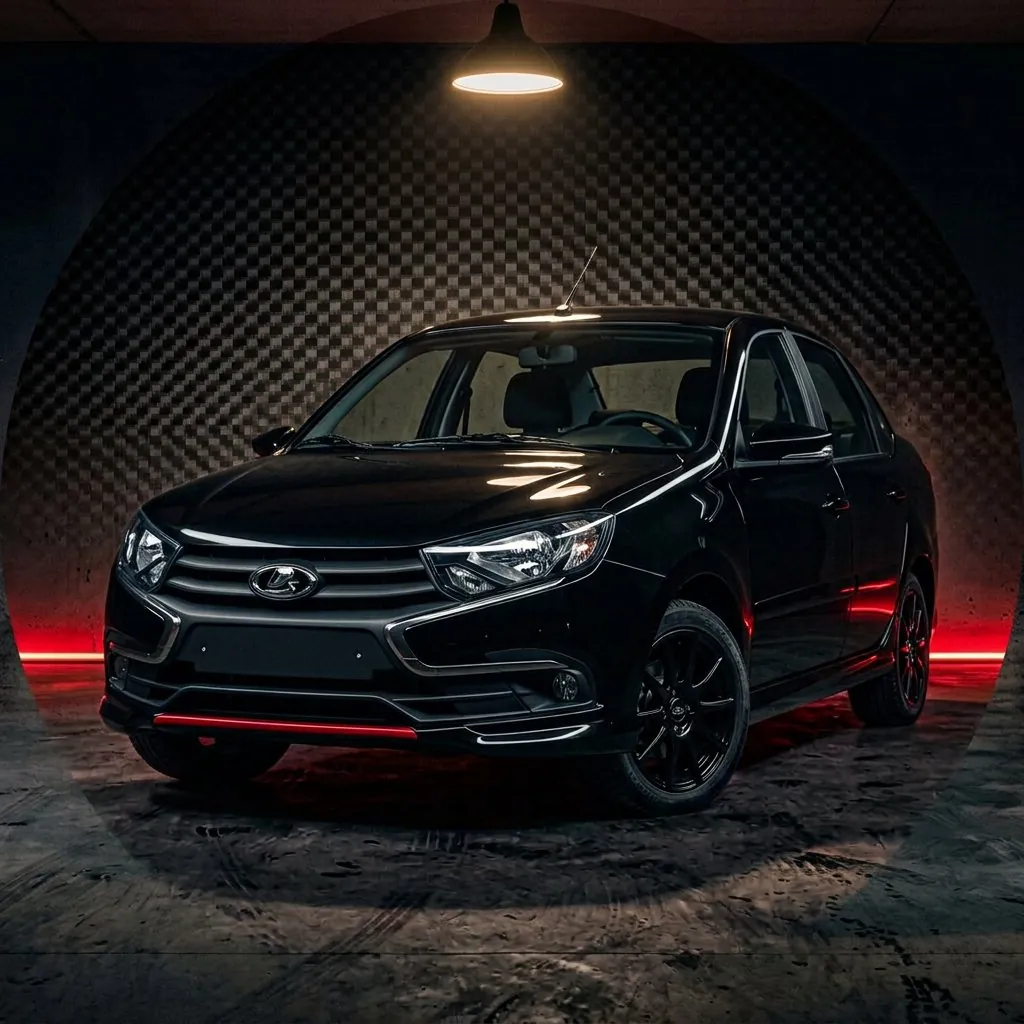
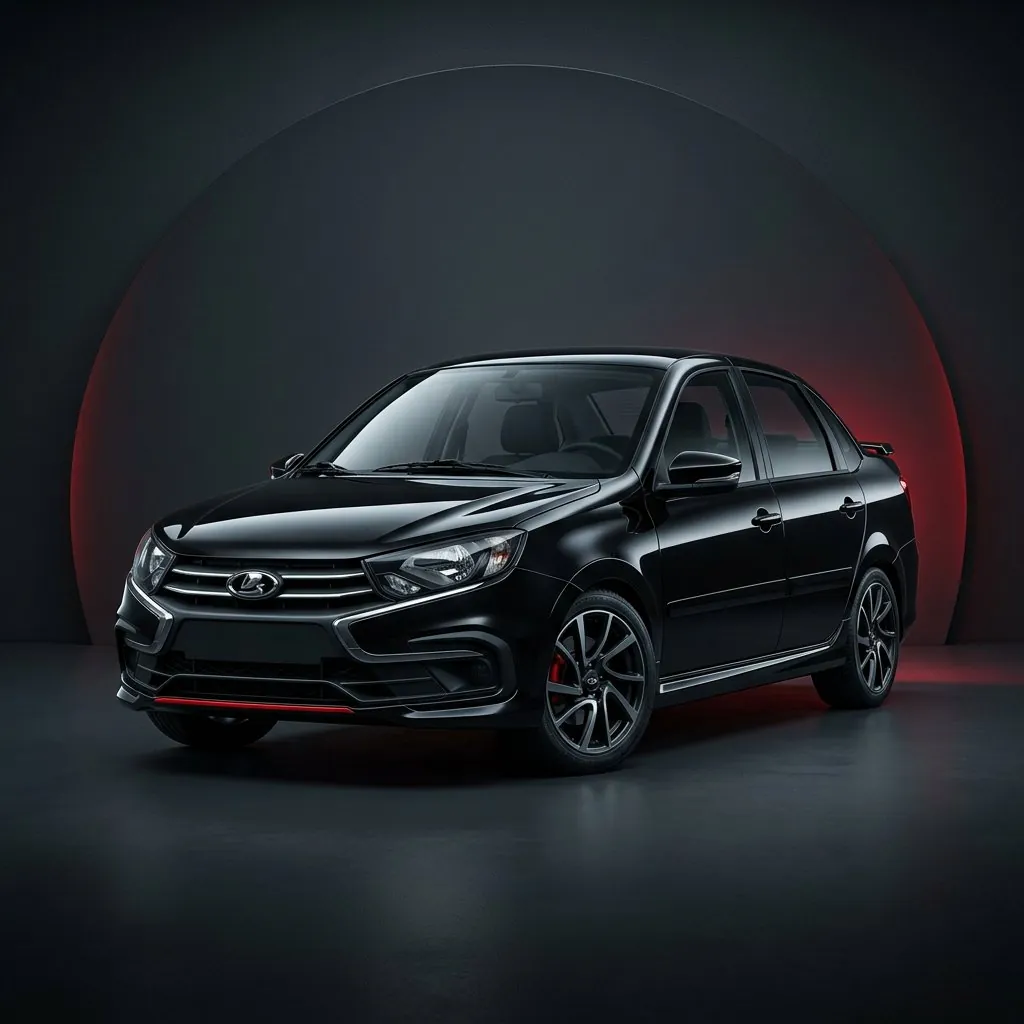
feat(images): только Granta Sport и Vesta Sport 2026, чёрный и белый
На всех кадрах сайта теперь актуальные спортивные версии 2026 модельного
года: у Granta Sport — Х-образная решётка, спортивный бампер с красной губой,
юбки и спойлер; у Vesta Sport — чёрная крыша и зеркала, чёрные 17-дюймовые
диски, обвес и светодиодные фары с L-образными ДХО. Разрешены только два
цвета кузова — чёрный и белый, старых моделей в кадре нет.

Обновлены все 9 кадров дуэта и аватар Telegram-бота:
- hero, road, credit, fuel, service, garage, garage-granta, garage-vesta, detail
- шильдики в lada-duo-detail теперь читаются как GRANTA SPORT / VESTA SPORT
- WebP-версии пересобраны (npm run images: 1796 КБ → 986 КБ)
- alt-тексты и описания каталога в src/lib/assets.ts приведены к 2026 модельному ряду

npm run check (типы, тесты, smoke, сборка, check:dist) — зелёный.

diff --git a/src/lib/assets.ts b/src/lib/assets.ts
@@ -1,25 +1,25 @@
 /**
- * Каталог фотографий дуэта LADA Granta + LADA Vesta.
+ * Каталог фотографий дуэта 2026 модельного года: LADA Granta Sport и LADA Vesta Sport.
  *
- * Кабинет больше не «только Гранта»: каждый кадр снят с ДВУМЯ машинами —
- * Granta и Vesta всегда в кадре вместе, чтобы визуал подходил владельцам
- * обеих моделей. По одному кадру на раздел приложения, чтобы вкладки
- * визуально не повторялись:
+ * В кадре — только актуальные спортивные версии 2026 модельного года и только два
+ * разрешённых цвета кузова: чёрный и белый. Старых моделей и других цветов быть
+ * не должно. По одному кадру на раздел приложения, чтобы вкладки визуально не
+ * повторялись:
  *
- *   Вход     → две машины на мосту на закате   (lada-duo-hero)
- *   Главная  → дуэт на трассе на рассвете      (lada-duo-road)
- *   Кредит   → дуэт у автосалона ночью         (lada-duo-credit)
- *   Расходы  → дуэт на АЗС в сумерках          (lada-duo-fuel)
- *   ТО       → дуэт в сервисе, одна на подъёмнике (lada-duo-service)
- *   Гараж    → дуэт в частном гараже           (lada-duo-garage)
+ *   Вход     → дуэт Sport 2026 на мосту на закате    (lada-duo-hero)
+ *   Главная  → дуэт Sport 2026 на трассе на рассвете (lada-duo-road)
+ *   Кредит   → дуэт Sport 2026 у автосалона LADA     (lada-duo-credit)
+ *   Расходы  → дуэт Sport 2026 на АЗС в сумерках     (lada-duo-fuel)
+ *   ТО       → дуэт Sport 2026 в сервисе             (lada-duo-service)
+ *   Гараж    → дуэт Sport 2026 в частном гараже      (lada-duo-garage)
  *
- * Деталь — макро двух шильдиков «GRANTA | VESTA» (lada-duo-detail) —
+ * Деталь — макро шильдиков «GRANTA SPORT | VESTA SPORT» (lada-duo-detail) —
  * используется в пустых состояниях и карточках-ссылках.
  *
  * Полноформатные кадры «домашний гараж с красной LED-подсветкой» —
- * lada-duo-garage-granta (Granta в фокусе, Vesta сзади) и
- * lada-duo-garage-vesta (Vesta в фокусе, Granta сзади): обе машины
- * всегда в кадре, переключатель лишь выбирает, какая из них ваша.
+ * lada-duo-garage-granta (Granta Sport 2026 в фокусе, Vesta Sport 2026 сзади) и
+ * lada-duo-garage-vesta (Vesta Sport 2026 в фокусе, Granta Sport 2026 сзади):
+ * обе машины всегда в кадре, переключатель лишь выбирает, какая из них ваша.
  *
  * У каждого кадра есть WebP-версия (`npm run images`), которая
  * подставляется автоматически через `data-webp-src`.
@@ -44,50 +44,50 @@ const asset = (name: string, alt: string): DuoAssetMeta => ({
 })
 
 export const LADA_DUO_ASSETS = {
-  /** Вход: Granta и Vesta рядом на мосту, закат (референс старого hero-кадра) */
+  /** Вход: чёрная Granta Sport и белая Vesta Sport (2026) на мосту, закат */
   hero: asset(
     'lada-duo-hero',
-    'LADA Granta и LADA Vesta рядом на мосту на закате, ракурс 3/4 спереди',
+    'Чёрная LADA Granta Sport 2026 и белая LADA Vesta Sport 2026 рядом на мосту на закате, ракурс 3/4 спереди',
   ),
-  /** Макро двух шильдиков «GRANTA | VESTA» на тёмной крышке багажника */
+  /** Макро шильдиков «GRANTA SPORT» и «VESTA SPORT» на чёрной крышке багажника */
   detail: asset(
     'lada-duo-detail',
-    'Крупный план хромированных шильдиков GRANTA и VESTA на тёмной крышке багажника',
+    'Крупный план хромированных шильдиков GRANTA SPORT и VESTA SPORT на глянцево-чёрной крышке багажника',
   ),
   /** Главная: дуэт на городской трассе на рассвете */
   road: asset(
     'lada-duo-road',
-    'LADA Granta и LADA Vesta идут tandem по городской трассе на рассвете',
+    'Чёрная LADA Granta Sport 2026 и белая LADA Vesta Sport 2026 идут дуэтом по городской трассе на рассвете',
   ),
   /** Кредит: дуэт у стеклянного автосалона ночью */
   credit: asset(
     'lada-duo-credit',
-    'LADA Granta и LADA Vesta у стеклянного автосалона ночью, мокрый асфальт',
+    'Чёрная LADA Granta Sport 2026 и белая LADA Vesta Sport 2026 у стеклянного автосалона LADA ночью, мокрый асфальт',
   ),
   /** Расходы: дуэт на заправке в сумерках */
   fuel: asset(
     'lada-duo-fuel',
-    'LADA Granta и LADA Vesta на соседних колонках АЗС в сумерках, пистолет в горловине бака',
+    'Чёрная LADA Granta Sport 2026 и белая LADA Vesta Sport 2026 на соседних колонках АЗС в сумерках, пистолет в горловине бака',
   ),
-  /** ТО: Granta на подъёмнике, Vesta с открытым капотом */
+  /** ТО: Granta Sport 2026 на подъёмнике, Vesta Sport 2026 с открытым капотом */
   service: asset(
     'lada-duo-service',
-    'LADA Granta на двухстоечном подъёмнике и LADA Vesta с открытым капотом в сервисной зоне',
+    'Чёрная LADA Granta Sport 2026 на двухстоечном подъёмнике и белая LADA Vesta Sport 2026 с открытым капотом в сервисной зоне',
   ),
   /** Гараж: частный бокс с тёплым светом, обе машины */
   garage: asset(
     'lada-duo-garage',
-    'LADA Granta и LADA Vesta в частном гараже под тёплой лампой, рядом комплект шин',
+    'Чёрная LADA Granta Sport 2026 и белая LADA Vesta Sport 2026 в частном гараже под тёплой лампой, рядом комплект шин',
   ),
-  /** Гараж с LED-подсветкой: чёрная Granta в фокусе, белая Vesta сзади */
+  /** Гараж с LED-подсветкой: чёрная Granta Sport 2026 в фокусе, белая Vesta Sport 2026 сзади */
   garageGranta: asset(
     'lada-duo-garage-granta',
-    'Чёрная LADA Granta в фокусе и белая LADA Vesta сзади в тёмном гараже с красной LED-подсветкой',
+    'Чёрная LADA Granta Sport 2026 в фокусе и белая LADA Vesta Sport 2026 сзади в тёмном гараже с красной LED-подсветкой',
   ),
-  /** Гараж с LED-подсветкой: белая Vesta в фокусе, чёрная Granta сзади */
+  /** Гараж с LED-подсветкой: белая Vesta Sport 2026 в фокусе, чёрная Granta Sport 2026 сзади */
   garageVesta: asset(
     'lada-duo-garage-vesta',
-    'Белая LADA Vesta в фокусе и чёрная LADA Granta сзади в тёмном гараже с красной LED-подсветкой',
+    'Белая LADA Vesta Sport 2026 в фокусе и чёрная LADA Granta Sport 2026 сзади в тёмном гараже с красной LED-подсветкой',
   ),
 } as const
 
